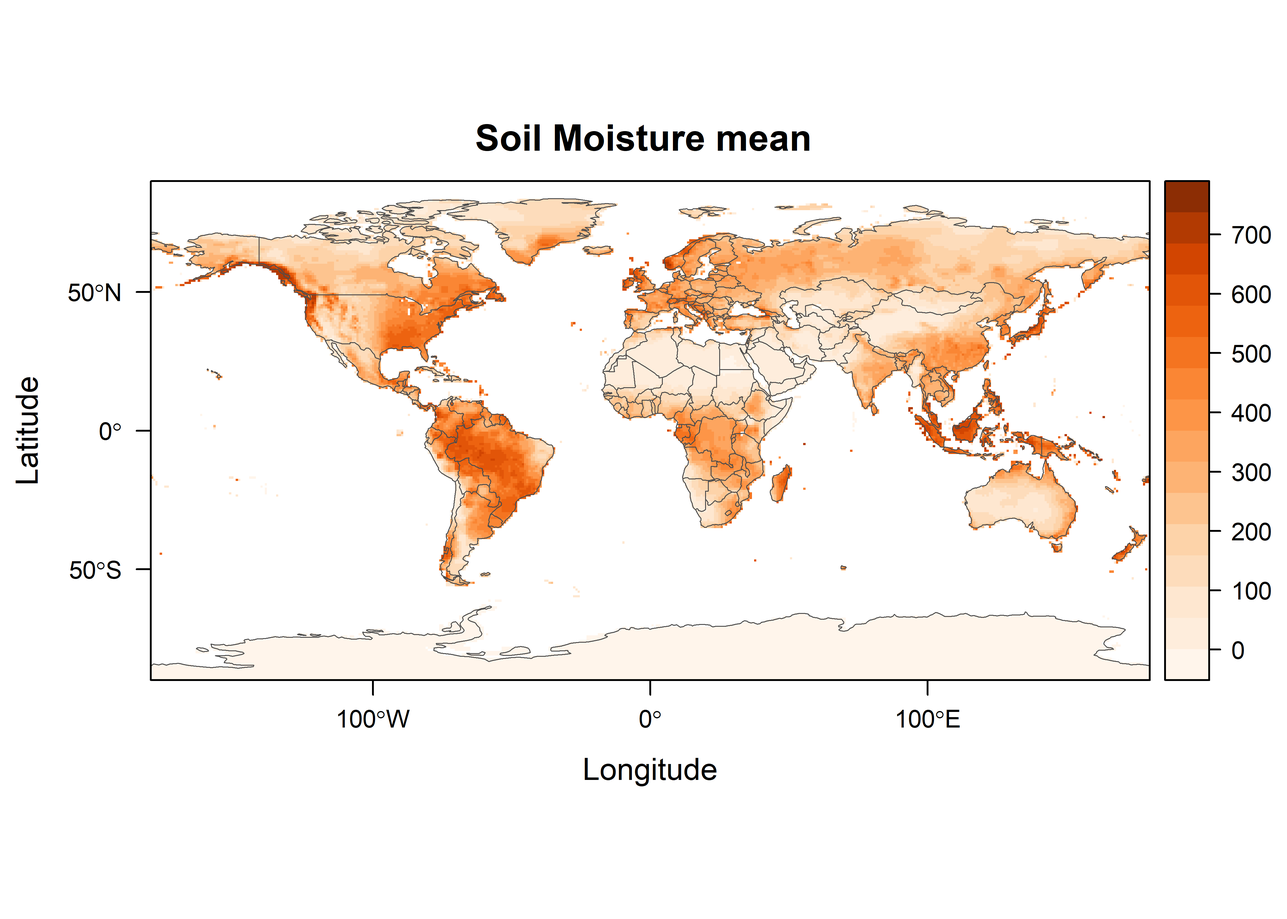
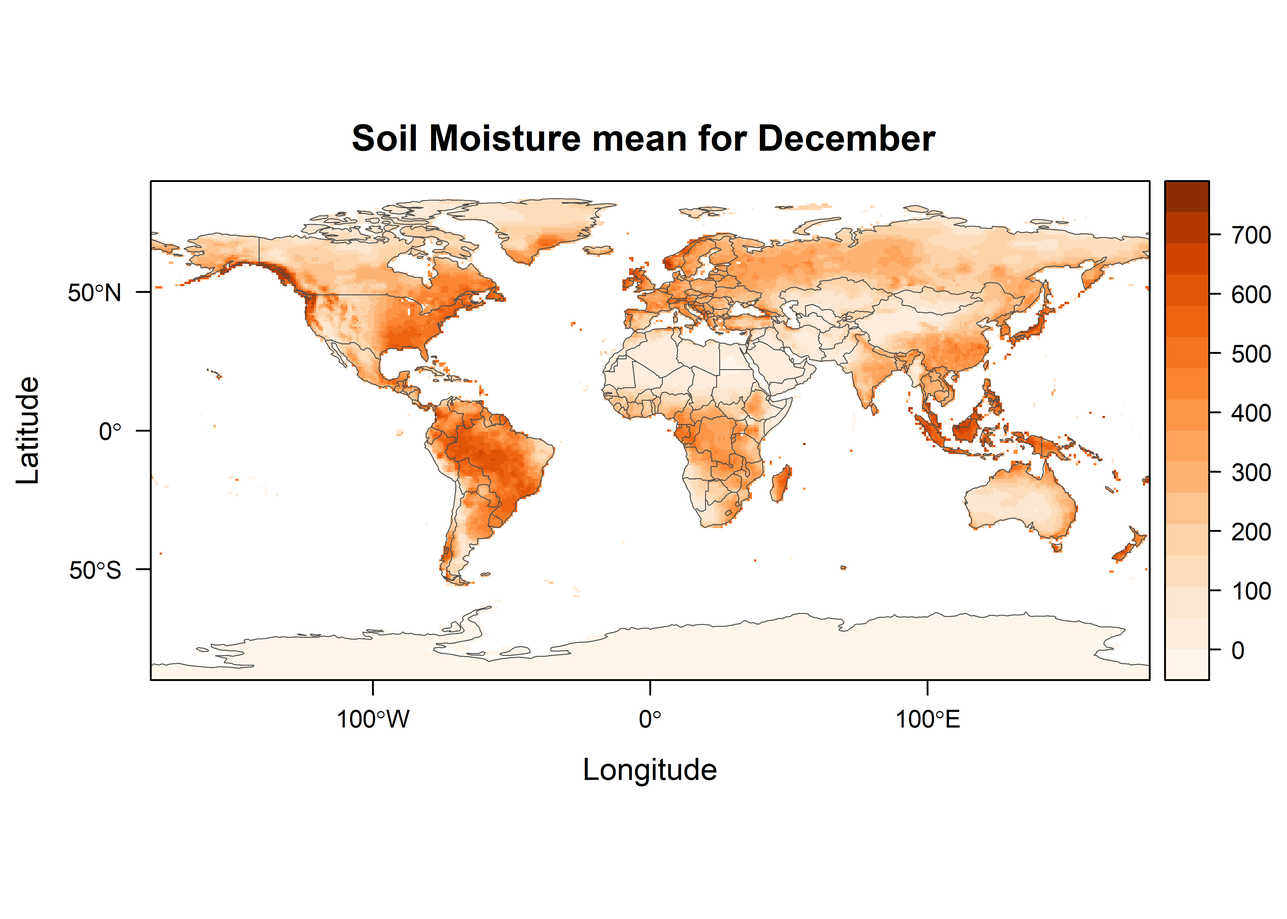
Final Project update

Changed region(s): [[0.2807, 0.124, 0.7174, 0.186]]

diff --git a/docs/plot_alpha_RMarkdown_Site.html b/docs/plot_alpha_RMarkdown_Site.html
@@ -398,7 +398,9 @@ $(document).ready(function () {
 </ul></li>
 <li><a href="#read-soil"><span class="toc-section-number">2.2</span> Read Soil</a></li>
 </ul></li>
-<li><a href="#plot-the-data"><span class="toc-section-number">3</span> Plot the data</a></li>
+<li><a href="#plot-the-data"><span class="toc-section-number">3</span> Plot the data</a><ul>
+<li><a href="#plot-months-december-and-august"><span class="toc-section-number">3.1</span> Plot months December and August</a></li>
+</ul></li>
 <li><a href="#plot-the-long-term-soil-moisture-mean-for-each-month"><span class="toc-section-number">4</span> Plot the long term soil moisture mean for each month</a></li>
 </ul>
 </div>
@@ -409,22 +411,17 @@ $(document).ready(function () {
 <div id="load-packages" class="section level2">
 <h2><span class="header-section-number">1.1</span> Load packages</h2>
 <div class="sourceCode" id="cb1"><pre class="sourceCode r"><code class="sourceCode r"><a class="sourceLine" id="cb1-1" title="1"><span class="co"># load packages</span></a>
-<a class="sourceLine" id="cb1-2" title="2"><span class="kw">library</span>(ggplot2)</a></code></pre></div>
-<pre><code>## Warning: package &#39;ggplot2&#39; was built under R version 3.5.3</code></pre>
-<div class="sourceCode" id="cb3"><pre class="sourceCode r"><code class="sourceCode r"><a class="sourceLine" id="cb3-1" title="1"><span class="kw">library</span>(ncdf4)</a></code></pre></div>
-<pre><code>## Warning: package &#39;ncdf4&#39; was built under R version 3.5.3</code></pre>
-<div class="sourceCode" id="cb5"><pre class="sourceCode r"><code class="sourceCode r"><a class="sourceLine" id="cb5-1" title="1"><span class="kw">library</span>(raster)</a></code></pre></div>
-<pre><code>## Warning: package &#39;raster&#39; was built under R version 3.5.3</code></pre>
-<div class="sourceCode" id="cb7"><pre class="sourceCode r"><code class="sourceCode r"><a class="sourceLine" id="cb7-1" title="1"><span class="kw">library</span>(rasterVis)</a></code></pre></div>
-<pre><code>## Warning: package &#39;rasterVis&#39; was built under R version 3.5.3</code></pre>
-<pre><code>## Warning: package &#39;latticeExtra&#39; was built under R version 3.5.3</code></pre>
-<div class="sourceCode" id="cb10"><pre class="sourceCode r"><code class="sourceCode r"><a class="sourceLine" id="cb10-1" title="1"><span class="kw">library</span>(RColorBrewer)</a>
-<a class="sourceLine" id="cb10-2" title="2"><span class="kw">library</span>(ggthemes)</a>
-<a class="sourceLine" id="cb10-3" title="3"><span class="kw">library</span>(ncdf.tools)</a></code></pre></div>
-<pre><code>## Warning: package &#39;ncdf.tools&#39; was built under R version 3.5.3</code></pre>
-<div class="sourceCode" id="cb12"><pre class="sourceCode r"><code class="sourceCode r"><a class="sourceLine" id="cb12-1" title="1"><span class="kw">library</span>(zoo)</a></code></pre></div>
-<pre><code>## Warning: package &#39;zoo&#39; was built under R version 3.5.3</code></pre>
-<div class="sourceCode" id="cb14"><pre class="sourceCode r"><code class="sourceCode r"><a class="sourceLine" id="cb14-1" title="1"><span class="kw">library</span>(sf)</a></code></pre></div>
+<a class="sourceLine" id="cb1-2" title="2"><span class="kw">library</span>(ggplot2)</a>
+<a class="sourceLine" id="cb1-3" title="3"><span class="kw">library</span>(ncdf4)</a>
+<a class="sourceLine" id="cb1-4" title="4"><span class="kw">library</span>(raster)</a>
+<a class="sourceLine" id="cb1-5" title="5"><span class="kw">library</span>(rasterVis)</a>
+<a class="sourceLine" id="cb1-6" title="6"><span class="kw">library</span>(RColorBrewer)</a>
+<a class="sourceLine" id="cb1-7" title="7"><span class="kw">library</span>(ggthemes)</a>
+<a class="sourceLine" id="cb1-8" title="8"><span class="kw">library</span>(ncdf.tools)</a>
+<a class="sourceLine" id="cb1-9" title="9"><span class="kw">library</span>(zoo)</a>
+<a class="sourceLine" id="cb1-10" title="10"><span class="kw">library</span>(sf)</a>
+<a class="sourceLine" id="cb1-11" title="11"><span class="kw">library</span>(gridExtra)</a></code></pre></div>
+<pre><code>## Warning: package &#39;gridExtra&#39; was built under R version 3.5.3</code></pre>
 </div>
 </div>
 <div id="read-data" class="section level1">
@@ -434,39 +431,39 @@ $(document).ready(function () {
 <div id="read-a-shapefile" class="section level3">
 <h3><span class="header-section-number">2.1.1</span> Read a Shapefile</h3>
 <p>Read world countries shapefile</p>
-<div class="sourceCode" id="cb15"><pre class="sourceCode r"><code class="sourceCode r"><a class="sourceLine" id="cb15-1" title="1">shp_path &lt;-<span class="st"> &quot;C:</span><span class="ch">\\</span><span class="st">Users</span><span class="ch">\\</span><span class="st">jonjo</span><span class="ch">\\</span><span class="st">Documents</span><span class="ch">\\</span><span class="st">projects</span><span class="ch">\\</span><span class="st">geog490</span><span class="ch">\\</span><span class="st">data</span><span class="ch">\\</span><span class="st">&quot;</span></a>
-<a class="sourceLine" id="cb15-2" title="2">shp_name &lt;-<span class="st"> &quot;ne_110m_admin_0_countries.shp&quot;</span></a>
-<a class="sourceLine" id="cb15-3" title="3">shp_file &lt;-<span class="st"> </span><span class="kw">paste</span>(shp_path,shp_name,<span class="dt">sep=</span><span class="st">&quot;&quot;</span>)</a>
-<a class="sourceLine" id="cb15-4" title="4"></a>
-<a class="sourceLine" id="cb15-5" title="5">world_shp &lt;-<span class="st"> </span><span class="kw">read_sf</span>(shp_file)</a>
-<a class="sourceLine" id="cb15-6" title="6">world_outline &lt;-<span class="st"> </span><span class="kw">as</span>(<span class="kw">st_geometry</span>(world_shp), <span class="dt">Class =</span> <span class="st">&quot;Spatial&quot;</span>)</a></code></pre></div>
+<div class="sourceCode" id="cb3"><pre class="sourceCode r"><code class="sourceCode r"><a class="sourceLine" id="cb3-1" title="1">shp_path &lt;-<span class="st"> &quot;C:</span><span class="ch">\\</span><span class="st">Users</span><span class="ch">\\</span><span class="st">jonjo</span><span class="ch">\\</span><span class="st">Documents</span><span class="ch">\\</span><span class="st">projects</span><span class="ch">\\</span><span class="st">geog490</span><span class="ch">\\</span><span class="st">data</span><span class="ch">\\</span><span class="st">&quot;</span></a>
+<a class="sourceLine" id="cb3-2" title="2">shp_name &lt;-<span class="st"> &quot;ne_110m_admin_0_countries.shp&quot;</span></a>
+<a class="sourceLine" id="cb3-3" title="3">shp_file &lt;-<span class="st"> </span><span class="kw">paste</span>(shp_path,shp_name,<span class="dt">sep=</span><span class="st">&quot;&quot;</span>)</a>
+<a class="sourceLine" id="cb3-4" title="4"></a>
+<a class="sourceLine" id="cb3-5" title="5">world_shp &lt;-<span class="st"> </span><span class="kw">read_sf</span>(shp_file)</a>
+<a class="sourceLine" id="cb3-6" title="6">world_outline &lt;-<span class="st"> </span><span class="kw">as</span>(<span class="kw">st_geometry</span>(world_shp), <span class="dt">Class =</span> <span class="st">&quot;Spatial&quot;</span>)</a></code></pre></div>
 </div>
 <div id="plot-the-shapefile" class="section level3">
 <h3><span class="header-section-number">2.1.2</span> Plot the shapefile</h3>
-<div class="sourceCode" id="cb16"><pre class="sourceCode r"><code class="sourceCode r"><a class="sourceLine" id="cb16-1" title="1"><span class="co"># plot the world outlines</span></a>
-<a class="sourceLine" id="cb16-2" title="2"><span class="kw">plot</span>(world_outline,<span class="dt">col=</span><span class="st">&quot;gray80&quot;</span>,<span class="dt">lwd=</span><span class="dv">1</span>)</a></code></pre></div>
+<div class="sourceCode" id="cb4"><pre class="sourceCode r"><code class="sourceCode r"><a class="sourceLine" id="cb4-1" title="1"><span class="co"># plot the world outlines</span></a>
+<a class="sourceLine" id="cb4-2" title="2"><span class="kw">plot</span>(world_outline,<span class="dt">col=</span><span class="st">&quot;gray80&quot;</span>,<span class="dt">lwd=</span><span class="dv">1</span>)</a></code></pre></div>
 <p><img src="plot_alpha_RMarkdown_Site_files/figure-html/plot_shapefile-1.png" width="2100" /></p>
 </div>
 </div>
 <div id="read-soil" class="section level2">
 <h2><span class="header-section-number">2.2</span> Read Soil</h2>
-<p>Now read in soil moisture data with ncdf4 package</p>
+<p><strong>Now read in soil moisture data with ncdf4 package</strong></p>
 <ul>
 <li>This piece of code displays the raster coordinate extent before rotating the coordinate system.</li>
 </ul>
-<div class="sourceCode" id="cb17"><pre class="sourceCode r"><code class="sourceCode r"><a class="sourceLine" id="cb17-1" title="1">nc_path &lt;-<span class="st"> &quot;C:</span><span class="ch">\\</span><span class="st">Users</span><span class="ch">\\</span><span class="st">jonjo</span><span class="ch">\\</span><span class="st">Documents</span><span class="ch">\\</span><span class="st">geog490</span><span class="ch">\\</span><span class="st">data</span><span class="ch">\\</span><span class="st">&quot;</span></a>
-<a class="sourceLine" id="cb17-2" title="2">nc_name &lt;-<span class="st"> &quot;soilw.mon.ltm.v2.nc&quot;</span></a>
-<a class="sourceLine" id="cb17-3" title="3">nc_file &lt;-<span class="st"> </span><span class="kw">paste</span>(nc_path,nc_name,<span class="dt">sep=</span><span class="st">&quot;&quot;</span>)</a>
-<a class="sourceLine" id="cb17-4" title="4"></a>
-<a class="sourceLine" id="cb17-5" title="5">soil_raster &lt;-<span class="st"> </span><span class="kw">raster</span>(nc_file,<span class="dt">varname=</span><span class="st">&quot;soilw&quot;</span>)</a>
-<a class="sourceLine" id="cb17-6" title="6"></a>
-<a class="sourceLine" id="cb17-7" title="7">soil_raster <span class="co"># Convert the coordinates of raster to -180-180 degrees</span></a></code></pre></div>
+<div class="sourceCode" id="cb5"><pre class="sourceCode r"><code class="sourceCode r"><a class="sourceLine" id="cb5-1" title="1">nc_path &lt;-<span class="st"> &quot;C:</span><span class="ch">\\</span><span class="st">Users</span><span class="ch">\\</span><span class="st">jonjo</span><span class="ch">\\</span><span class="st">Documents</span><span class="ch">\\</span><span class="st">geog490</span><span class="ch">\\</span><span class="st">data</span><span class="ch">\\</span><span class="st">&quot;</span></a>
+<a class="sourceLine" id="cb5-2" title="2">nc_name &lt;-<span class="st"> &quot;soilw.mon.ltm.v2.nc&quot;</span></a>
+<a class="sourceLine" id="cb5-3" title="3">nc_file &lt;-<span class="st"> </span><span class="kw">paste</span>(nc_path,nc_name,<span class="dt">sep=</span><span class="st">&quot;&quot;</span>)</a>
+<a class="sourceLine" id="cb5-4" title="4"></a>
+<a class="sourceLine" id="cb5-5" title="5">soil_raster_dec &lt;-<span class="st"> </span><span class="kw">raster</span>(nc_file,<span class="dt">varname=</span><span class="st">&quot;soilw&quot;</span>,<span class="dt">band=</span><span class="dv">1</span>)</a>
+<a class="sourceLine" id="cb5-6" title="6"></a>
+<a class="sourceLine" id="cb5-7" title="7">soil_raster_dec <span class="co"># Convert the coordinates of raster to -180-180 degrees</span></a></code></pre></div>
 <pre><code>## class       : RasterLayer 
 ## band        : 1  (of  12  bands)
 ## dimensions  : 360, 720, 259200  (nrow, ncol, ncell)
 ## resolution  : 0.5, 0.5  (x, y)
 ## extent      : 0, 360, -90, 90  (xmin, xmax, ymin, ymax)
-## coord. ref. : +proj=longlat +datum=WGS84 
+## coord. ref. : +proj=longlat +datum=WGS84 +ellps=WGS84 +towgs84=0,0,0 
 ## data source : C:/Users/jonjo/Documents/geog490/data/soilw.mon.ltm.v2.nc 
 ## names       : Model.Calculated.Long.Term.Monthly.Mean.Soil.Moisture 
 ## z-value     : 0000-12-30 
@@ -474,14 +471,14 @@ $(document).ready(function () {
 <ul>
 <li>This is after rotating the coordinate system to fit the plot</li>
 </ul>
-<div class="sourceCode" id="cb19"><pre class="sourceCode r"><code class="sourceCode r"><a class="sourceLine" id="cb19-1" title="1">soil &lt;-<span class="st"> </span><span class="kw">rotate</span>(soil_raster)</a>
-<a class="sourceLine" id="cb19-2" title="2"></a>
-<a class="sourceLine" id="cb19-3" title="3">soil</a></code></pre></div>
+<div class="sourceCode" id="cb7"><pre class="sourceCode r"><code class="sourceCode r"><a class="sourceLine" id="cb7-1" title="1">soil_dec &lt;-<span class="st"> </span><span class="kw">rotate</span>(soil_raster_dec)</a>
+<a class="sourceLine" id="cb7-2" title="2"></a>
+<a class="sourceLine" id="cb7-3" title="3">soil_dec</a></code></pre></div>
 <pre><code>## class       : RasterLayer 
 ## dimensions  : 360, 720, 259200  (nrow, ncol, ncell)
 ## resolution  : 0.5, 0.5  (x, y)
 ## extent      : -180, 180, -90, 90  (xmin, xmax, ymin, ymax)
-## coord. ref. : +proj=longlat +datum=WGS84 
+## coord. ref. : +proj=longlat +datum=WGS84 +ellps=WGS84 +towgs84=0,0,0 
 ## data source : in memory
 ## names       : Model.Calculated.Long.Term.Monthly.Mean.Soil.Moisture 
 ## values      : 1.862645e-06, 738.2755  (min, max)
@@ -490,27 +487,66 @@ $(document).ready(function () {
 </div>
 <div id="plot-the-data" class="section level1">
 <h1><span class="header-section-number">3</span> Plot the data</h1>
-<p>Finally, plot the soil moisture data using the <code>levelplot()</code> function from <code>rasterVis</code> for one month:</p>
-<div class="sourceCode" id="cb21"><pre class="sourceCode r"><code class="sourceCode r"><a class="sourceLine" id="cb21-1" title="1"><span class="co"># rasterVis plot</span></a>
-<a class="sourceLine" id="cb21-2" title="2">maptheme &lt;-<span class="st"> </span><span class="kw">rasterTheme</span>(<span class="dt">region=</span><span class="kw">brewer.pal</span>(<span class="dv">8</span>,<span class="st">&quot;Oranges&quot;</span>))</a>
-<a class="sourceLine" id="cb21-3" title="3">plt &lt;-<span class="st"> </span><span class="kw">levelplot</span>(soil, <span class="dt">margin=</span>F, <span class="dt">par.settings=</span>maptheme,<span class="dt">main=</span><span class="st">&quot;Soil Moisture mean&quot;</span>)</a>
-<a class="sourceLine" id="cb21-4" title="4">plt <span class="op">+</span><span class="st"> </span>latticeExtra<span class="op">::</span><span class="kw">layer</span>(<span class="kw">sp.lines</span>(world_outline, <span class="dt">col=</span><span class="st">&quot;gray30&quot;</span>, <span class="dt">lwd=</span><span class="fl">0.5</span>))</a></code></pre></div>
+<p><strong>Finally, plot the soil moisture data using the <code>levelplot()</code> function from <code>rasterVis</code> for month of December:</strong></p>
+<div class="sourceCode" id="cb9"><pre class="sourceCode r"><code class="sourceCode r"><a class="sourceLine" id="cb9-1" title="1"><span class="co"># rasterVis plot</span></a>
+<a class="sourceLine" id="cb9-2" title="2"><span class="co">#soil_raster &lt;- raster(nc_file,varname=&quot;soilw&quot;)</span></a>
+<a class="sourceLine" id="cb9-3" title="3">maptheme &lt;-<span class="st"> </span><span class="kw">rasterTheme</span>(<span class="dt">region=</span><span class="kw">brewer.pal</span>(<span class="dv">8</span>,<span class="st">&quot;Oranges&quot;</span>))</a>
+<a class="sourceLine" id="cb9-4" title="4">plt &lt;-<span class="st"> </span><span class="kw">levelplot</span>(soil_dec, <span class="dt">margin=</span>F, <span class="dt">par.settings=</span>maptheme,<span class="dt">main=</span><span class="st">&quot;Soil Moisture mean for December&quot;</span>)</a>
+<a class="sourceLine" id="cb9-5" title="5">plt <span class="op">+</span><span class="st"> </span>latticeExtra<span class="op">::</span><span class="kw">layer</span>(<span class="kw">sp.lines</span>(world_outline, <span class="dt">col=</span><span class="st">&quot;gray30&quot;</span>, <span class="dt">lwd=</span><span class="fl">0.5</span>))</a></code></pre></div>
 <p><img src="plot_alpha_RMarkdown_Site_files/figure-html/plot_data-1.png" width="2100" /></p>
+<div id="plot-months-december-and-august" class="section level2">
+<h2><span class="header-section-number">3.1</span> Plot months December and August</h2>
+<p><strong>By creating a second raster stack object specifying band 9, I will get the soil moisture from August</strong></p>
+<div class="sourceCode" id="cb10"><pre class="sourceCode r"><code class="sourceCode r"><a class="sourceLine" id="cb10-1" title="1">soil_raster_aug &lt;-<span class="st"> </span><span class="kw">raster</span>(nc_file,<span class="dt">varname=</span><span class="st">&quot;soilw&quot;</span>,<span class="dt">band=</span><span class="dv">9</span>)</a>
+<a class="sourceLine" id="cb10-2" title="2"></a>
+<a class="sourceLine" id="cb10-3" title="3">soil_raster_aug <span class="co"># Convert the coordinates of raster to -180-180 degrees</span></a></code></pre></div>
+<pre><code>## class       : RasterLayer 
+## band        : 9  (of  12  bands)
+## dimensions  : 360, 720, 259200  (nrow, ncol, ncell)
+## resolution  : 0.5, 0.5  (x, y)
+## extent      : 0, 360, -90, 90  (xmin, xmax, ymin, ymax)
+## coord. ref. : +proj=longlat +datum=WGS84 +ellps=WGS84 +towgs84=0,0,0 
+## data source : C:/Users/jonjo/Documents/geog490/data/soilw.mon.ltm.v2.nc 
+## names       : Model.Calculated.Long.Term.Monthly.Mean.Soil.Moisture 
+## z-value     : 0001-08-30 
+## zvar        : soilw</code></pre>
+<div class="sourceCode" id="cb12"><pre class="sourceCode r"><code class="sourceCode r"><a class="sourceLine" id="cb12-1" title="1">soil_aug &lt;-<span class="st"> </span><span class="kw">rotate</span>(soil_raster_aug)</a>
+<a class="sourceLine" id="cb12-2" title="2"></a>
+<a class="sourceLine" id="cb12-3" title="3">soil_aug</a></code></pre></div>
+<pre><code>## class       : RasterLayer 
+## dimensions  : 360, 720, 259200  (nrow, ncol, ncell)
+## resolution  : 0.5, 0.5  (x, y)
+## extent      : -180, 180, -90, 90  (xmin, xmax, ymin, ymax)
+## coord. ref. : +proj=longlat +datum=WGS84 +ellps=WGS84 +towgs84=0,0,0 
+## data source : in memory
+## names       : Model.Calculated.Long.Term.Monthly.Mean.Soil.Moisture 
+## values      : 1.862645e-06, 740.1436  (min, max)
+## z-value     : 0001-08-30</code></pre>
+<p><strong>I created two different plots and by using the library <code>gridExtra</code> I am able to display the two plots side by side with <code>grid.arrange()</code>. We can see the difference in soil moisture between the two months.</strong></p>
+<div class="sourceCode" id="cb14"><pre class="sourceCode r"><code class="sourceCode r"><a class="sourceLine" id="cb14-1" title="1"><span class="kw">par</span>(<span class="dt">mfrow=</span><span class="kw">c</span>(<span class="dv">1</span>,<span class="dv">2</span>))</a>
+<a class="sourceLine" id="cb14-2" title="2">maptheme &lt;-<span class="st"> </span><span class="kw">rasterTheme</span>(<span class="dt">region=</span><span class="kw">brewer.pal</span>(<span class="dv">8</span>,<span class="st">&quot;Oranges&quot;</span>))</a>
+<a class="sourceLine" id="cb14-3" title="3">plt1 &lt;-<span class="st"> </span><span class="kw">levelplot</span>(soil_dec, <span class="dt">margin=</span>F, <span class="dt">par.settings=</span>maptheme,<span class="dt">main=</span><span class="st">&quot;December mean Soil Moisture&quot;</span>)</a>
+<a class="sourceLine" id="cb14-4" title="4">plt_<span class="dv">1</span> &lt;-<span class="st"> </span>plt1 <span class="op">+</span><span class="st"> </span>latticeExtra<span class="op">::</span><span class="kw">layer</span>(<span class="kw">sp.lines</span>(world_outline, <span class="dt">col=</span><span class="st">&quot;gray30&quot;</span>, <span class="dt">lwd=</span><span class="fl">0.5</span>))</a>
+<a class="sourceLine" id="cb14-5" title="5"></a>
+<a class="sourceLine" id="cb14-6" title="6">maptheme &lt;-<span class="st"> </span><span class="kw">rasterTheme</span>(<span class="dt">region=</span><span class="kw">brewer.pal</span>(<span class="dv">8</span>,<span class="st">&quot;Oranges&quot;</span>))</a>
+<a class="sourceLine" id="cb14-7" title="7">plt2 &lt;-<span class="st"> </span><span class="kw">levelplot</span>(soil_aug, <span class="dt">margin=</span>F, <span class="dt">par.settings=</span>maptheme,<span class="dt">main=</span><span class="st">&quot;August mean Soil Moisture&quot;</span>)</a>
+<a class="sourceLine" id="cb14-8" title="8">plt_<span class="dv">2</span> &lt;-<span class="st"> </span>plt2 <span class="op">+</span><span class="st"> </span>latticeExtra<span class="op">::</span><span class="kw">layer</span>(<span class="kw">sp.lines</span>(world_outline, <span class="dt">col=</span><span class="st">&quot;gray30&quot;</span>, <span class="dt">lwd=</span><span class="fl">0.5</span>))</a>
+<a class="sourceLine" id="cb14-9" title="9"></a>
+<a class="sourceLine" id="cb14-10" title="10"><span class="kw">grid.arrange</span>(plt_<span class="dv">1</span>,plt_<span class="dv">2</span>,<span class="dt">ncol=</span><span class="dv">2</span>)</a></code></pre></div>
+<p><img src="plot_alpha_RMarkdown_Site_files/figure-html/plot_dec/aug-1.png" width="2100" /></p>
+</div>
 </div>
 <div id="plot-the-long-term-soil-moisture-mean-for-each-month" class="section level1">
 <h1><span class="header-section-number">4</span> Plot the long term soil moisture mean for each month</h1>
-<div class="sourceCode" id="cb22"><pre class="sourceCode r"><code class="sourceCode r"><a class="sourceLine" id="cb22-1" title="1">NC_soil_ltm &lt;-<span class="st"> </span><span class="kw">stack</span>(nc_file,<span class="dt">varname=</span><span class="st">&quot;soilw&quot;</span>) <span class="co"># Raster stck object</span></a>
-<a class="sourceLine" id="cb22-2" title="2">NC_soil_ltm &lt;-<span class="st"> </span><span class="kw">rotate</span>(NC_soil_ltm) <span class="co"># Rotate the raster object coordinates</span></a>
-<a class="sourceLine" id="cb22-3" title="3"><span class="kw">names</span>(NC_soil_ltm) &lt;-<span class="st"> </span><span class="kw">c</span>(<span class="st">&quot;Dec&quot;</span>,<span class="st">&quot;Jan&quot;</span>,<span class="st">&quot;Feb&quot;</span>,<span class="st">&quot;March&quot;</span>,<span class="st">&quot;April&quot;</span>,<span class="st">&quot;May&quot;</span>,<span class="st">&quot;June&quot;</span>,<span class="st">&quot;July&quot;</span>,<span class="st">&quot;August&quot;</span>,<span class="st">&quot;September&quot;</span>,<span class="st">&quot;October&quot;</span>,<span class="st">&quot;November&quot;</span>)</a>
-<a class="sourceLine" id="cb22-4" title="4"><span class="co">#pngfile &lt;- &quot;NC_soil_ltm.png&quot;</span></a>
-<a class="sourceLine" id="cb22-5" title="5"><span class="co">#png(pngfile, width=729, height=729) # open the file</span></a>
-<a class="sourceLine" id="cb22-6" title="6">cutpts &lt;-<span class="st"> </span><span class="kw">c</span>(<span class="dv">0</span>,<span class="dv">100</span>,<span class="dv">200</span>,<span class="dv">300</span>,<span class="dv">400</span>,<span class="dv">500</span>,<span class="dv">600</span>,<span class="dv">700</span>) <span class="co"># Set the cut points at the range of values of the dataset</span></a>
-<a class="sourceLine" id="cb22-7" title="7">cutpts</a></code></pre></div>
-<pre><code>## [1]   0 100 200 300 400 500 600 700</code></pre>
-<div class="sourceCode" id="cb24"><pre class="sourceCode r"><code class="sourceCode r"><a class="sourceLine" id="cb24-1" title="1">plt &lt;-<span class="st"> </span><span class="kw">levelplot</span>(NC_soil_ltm , <span class="dt">at=</span>cutpts, <span class="dt">cuts=</span><span class="dv">8</span>, <span class="dt">pretty=</span>T, </a>
-<a class="sourceLine" id="cb24-2" title="2">                 <span class="dt">col.regions=</span>(<span class="kw">brewer.pal</span>(<span class="dv">8</span>,<span class="st">&quot;Oranges&quot;</span>)))</a>
-<a class="sourceLine" id="cb24-3" title="3">plt <span class="op">+</span><span class="st"> </span>latticeExtra<span class="op">::</span><span class="kw">layer</span>(<span class="kw">sp.lines</span>(world_outline, <span class="dt">col=</span><span class="st">&quot;black&quot;</span>, <span class="dt">lwd=</span><span class="fl">0.5</span>))</a></code></pre></div>
-<p><img src="plot_alpha_RMarkdown_Site_files/figure-html/plot_months-1.png" width="2100" /></p>
+<div class="sourceCode" id="cb15"><pre class="sourceCode r"><code class="sourceCode r"><a class="sourceLine" id="cb15-1" title="1">NC_soil_ltm &lt;-<span class="st"> </span><span class="kw">stack</span>(nc_file,<span class="dt">varname=</span><span class="st">&quot;soilw&quot;</span>) <span class="co"># Raster stck object</span></a>
+<a class="sourceLine" id="cb15-2" title="2">NC_soil_ltm &lt;-<span class="st"> </span><span class="kw">rotate</span>(NC_soil_ltm) <span class="co"># Rotate the raster object coordinates</span></a>
+<a class="sourceLine" id="cb15-3" title="3"><span class="kw">names</span>(NC_soil_ltm) &lt;-<span class="st"> </span><span class="kw">c</span>(<span class="st">&quot;Dec&quot;</span>,<span class="st">&quot;Jan&quot;</span>,<span class="st">&quot;Feb&quot;</span>,<span class="st">&quot;March&quot;</span>,<span class="st">&quot;April&quot;</span>,<span class="st">&quot;May&quot;</span>,<span class="st">&quot;June&quot;</span>,<span class="st">&quot;July&quot;</span>,<span class="st">&quot;August&quot;</span>,<span class="st">&quot;September&quot;</span>,<span class="st">&quot;October&quot;</span>,<span class="st">&quot;November&quot;</span>)</a>
+<a class="sourceLine" id="cb15-4" title="4">cutpts &lt;-<span class="st"> </span><span class="kw">c</span>(<span class="dv">0</span>,<span class="dv">100</span>,<span class="dv">200</span>,<span class="dv">300</span>,<span class="dv">400</span>,<span class="dv">500</span>,<span class="dv">600</span>,<span class="dv">700</span>) <span class="co"># Set the cut points at the range of values of the dataset&#39;</span></a>
+<a class="sourceLine" id="cb15-5" title="5"></a>
+<a class="sourceLine" id="cb15-6" title="6">plt &lt;-<span class="st"> </span><span class="kw">levelplot</span>(NC_soil_ltm , <span class="dt">at=</span>cutpts, <span class="dt">cuts=</span><span class="dv">8</span>, <span class="dt">pretty=</span>T, </a>
+<a class="sourceLine" id="cb15-7" title="7">                 <span class="dt">col.regions=</span>(<span class="kw">brewer.pal</span>(<span class="dv">8</span>,<span class="st">&quot;Oranges&quot;</span>)))</a>
+<a class="sourceLine" id="cb15-8" title="8">plt <span class="op">+</span><span class="st"> </span>latticeExtra<span class="op">::</span><span class="kw">layer</span>(<span class="kw">sp.lines</span>(world_outline, <span class="dt">col=</span><span class="st">&quot;black&quot;</span>, <span class="dt">lwd=</span><span class="fl">0.5</span>))</a></code></pre></div>
+<p><img src="plot_alpha_RMarkdown_Site_files/figure-html/plot_months-1.png" width="2100" /> <strong>As we can see based on the long term mean per month, there is a slight difference we can see throughout the months. We can see that land along the equator espcially north of South America has consistent amount of soil moisture all year long, so their is consistent amount of rainfall in those areas. One thing to point out is the lower/mid latitudes of South America have a much higher amount of soil moisture recorded in the winter/spring season than in the summer. So, it is safe to assume that the drier/hotter seasons are in the summer compared to the others. If we focus are attention to the Pacific Northwest, we can see that there is a correlation between the soil moisture recorded and the time of year it was recorded. Since their is a great amount of precipitation in the winter and spring, those spots on the map have a darker tone meaning a higher amount recorded compared to those months in the summer.</strong></p>
 </div>
 
 
